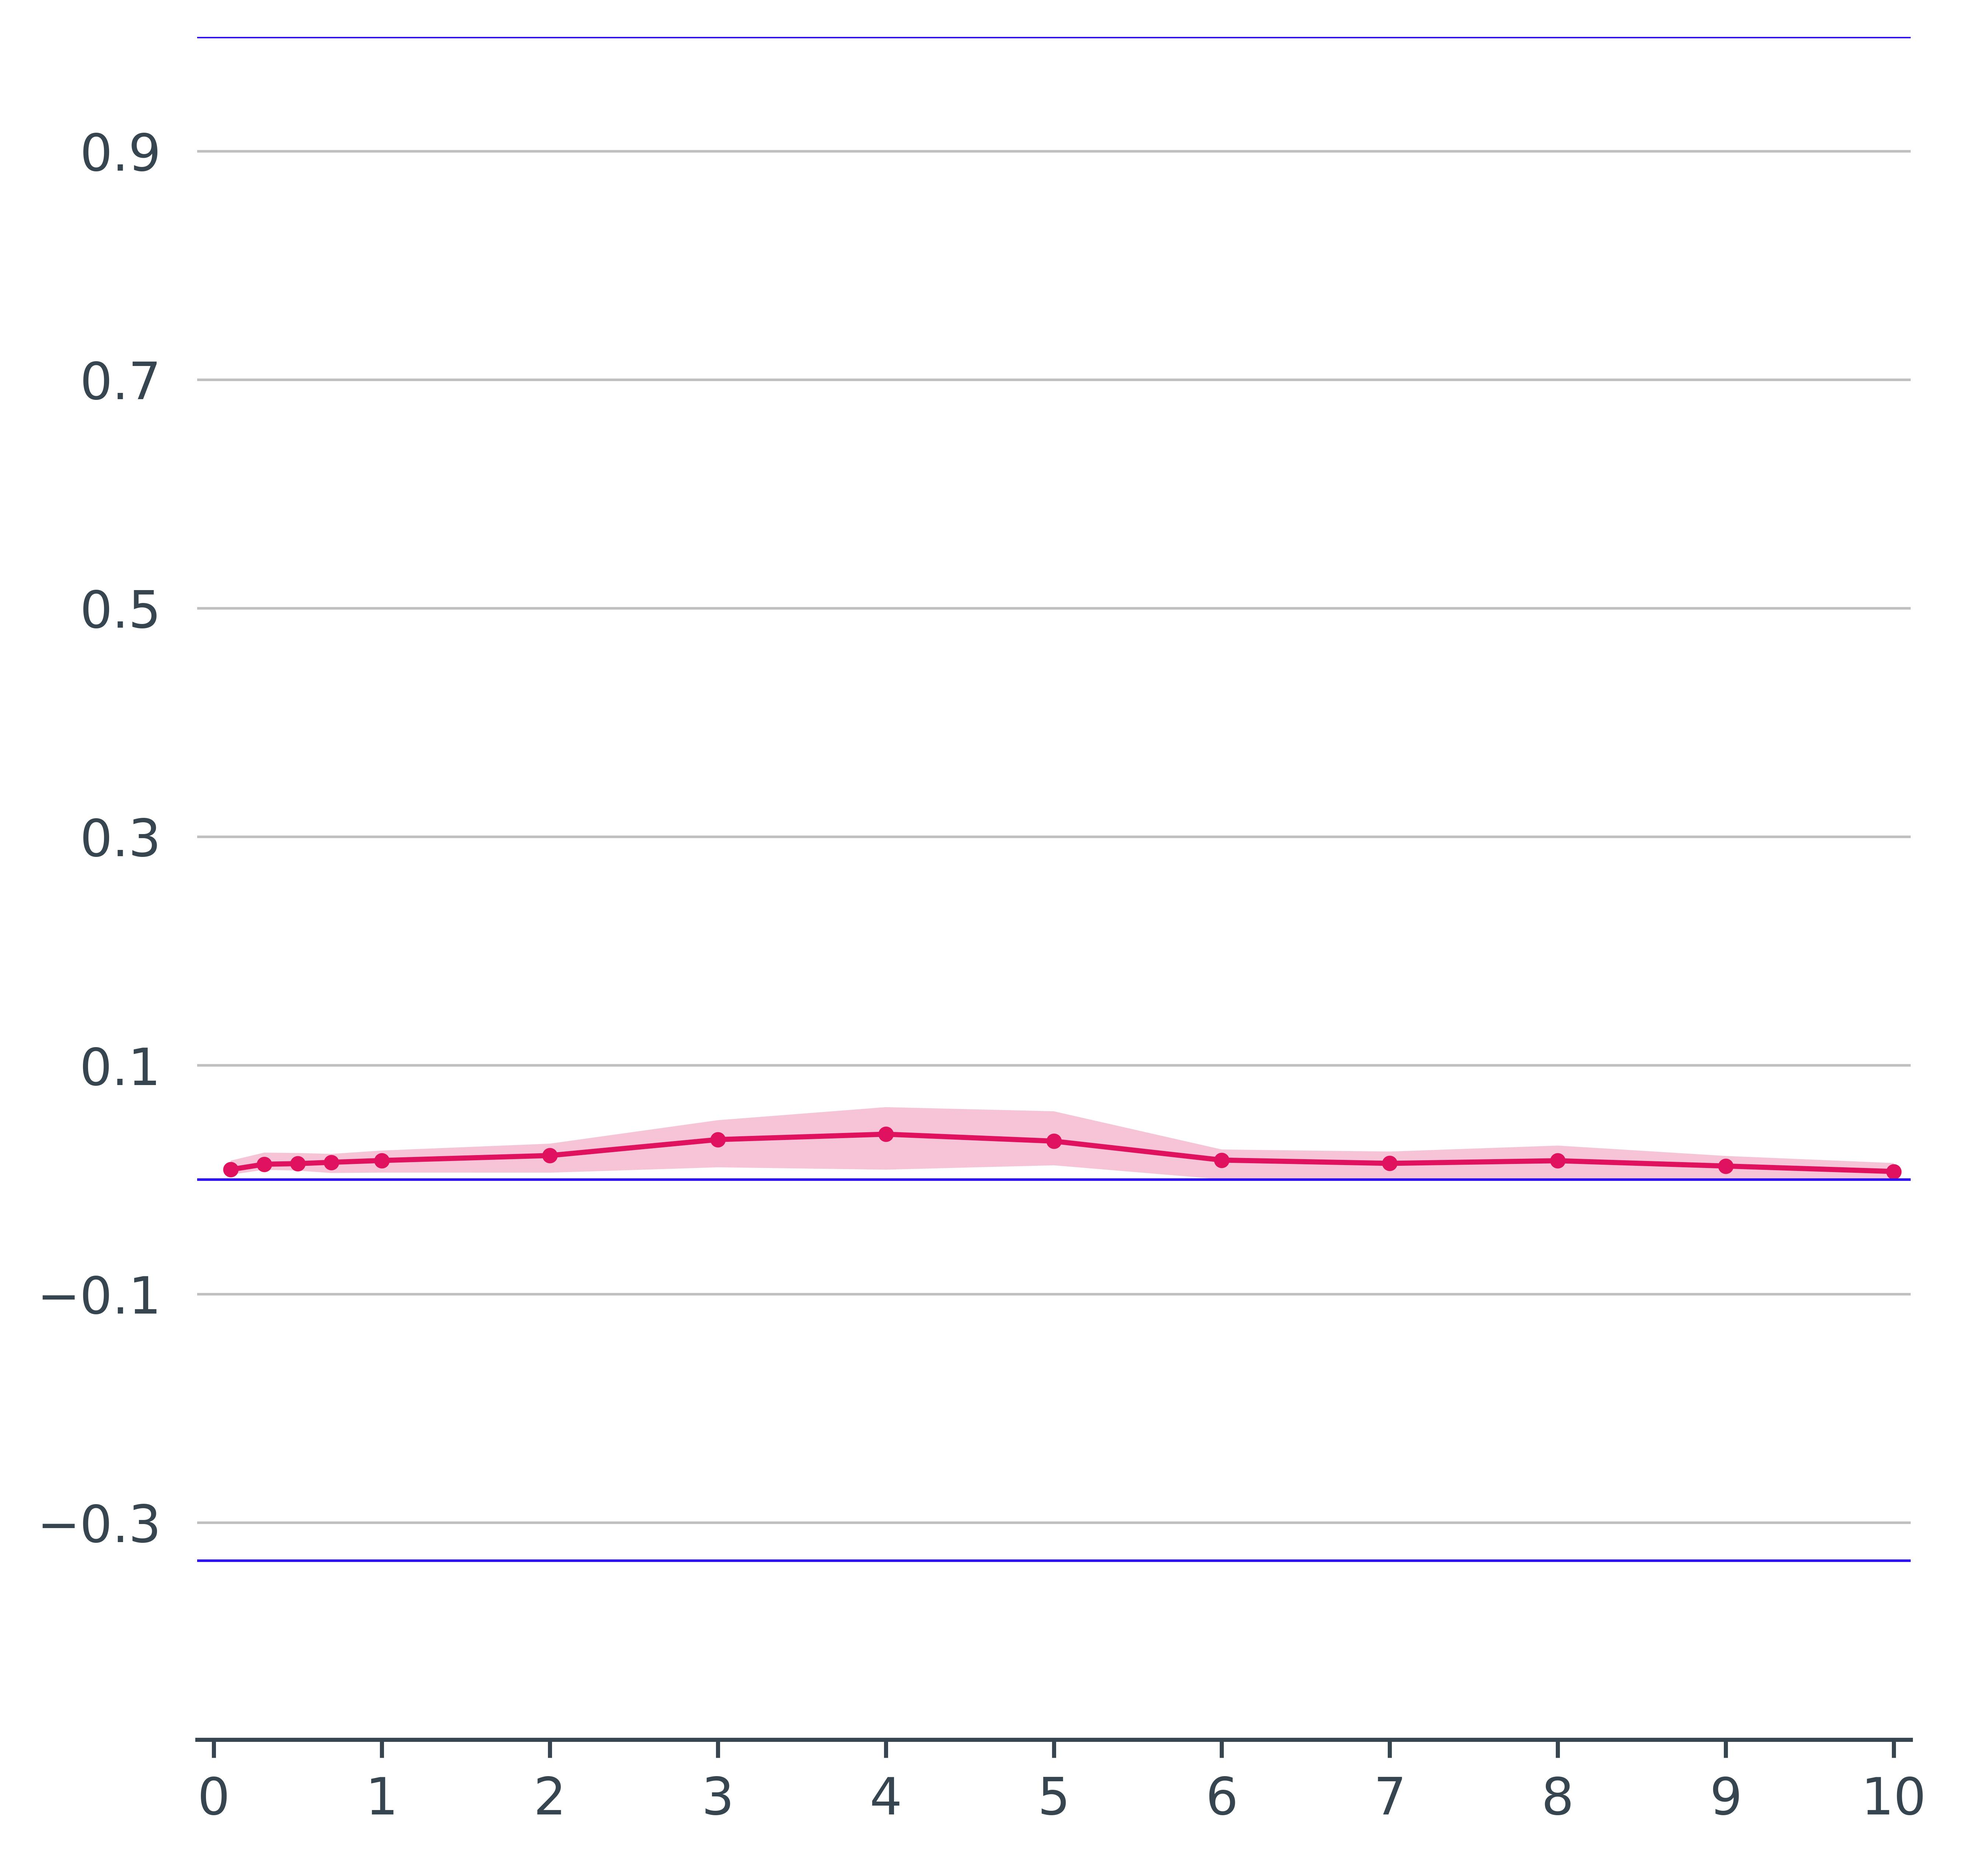
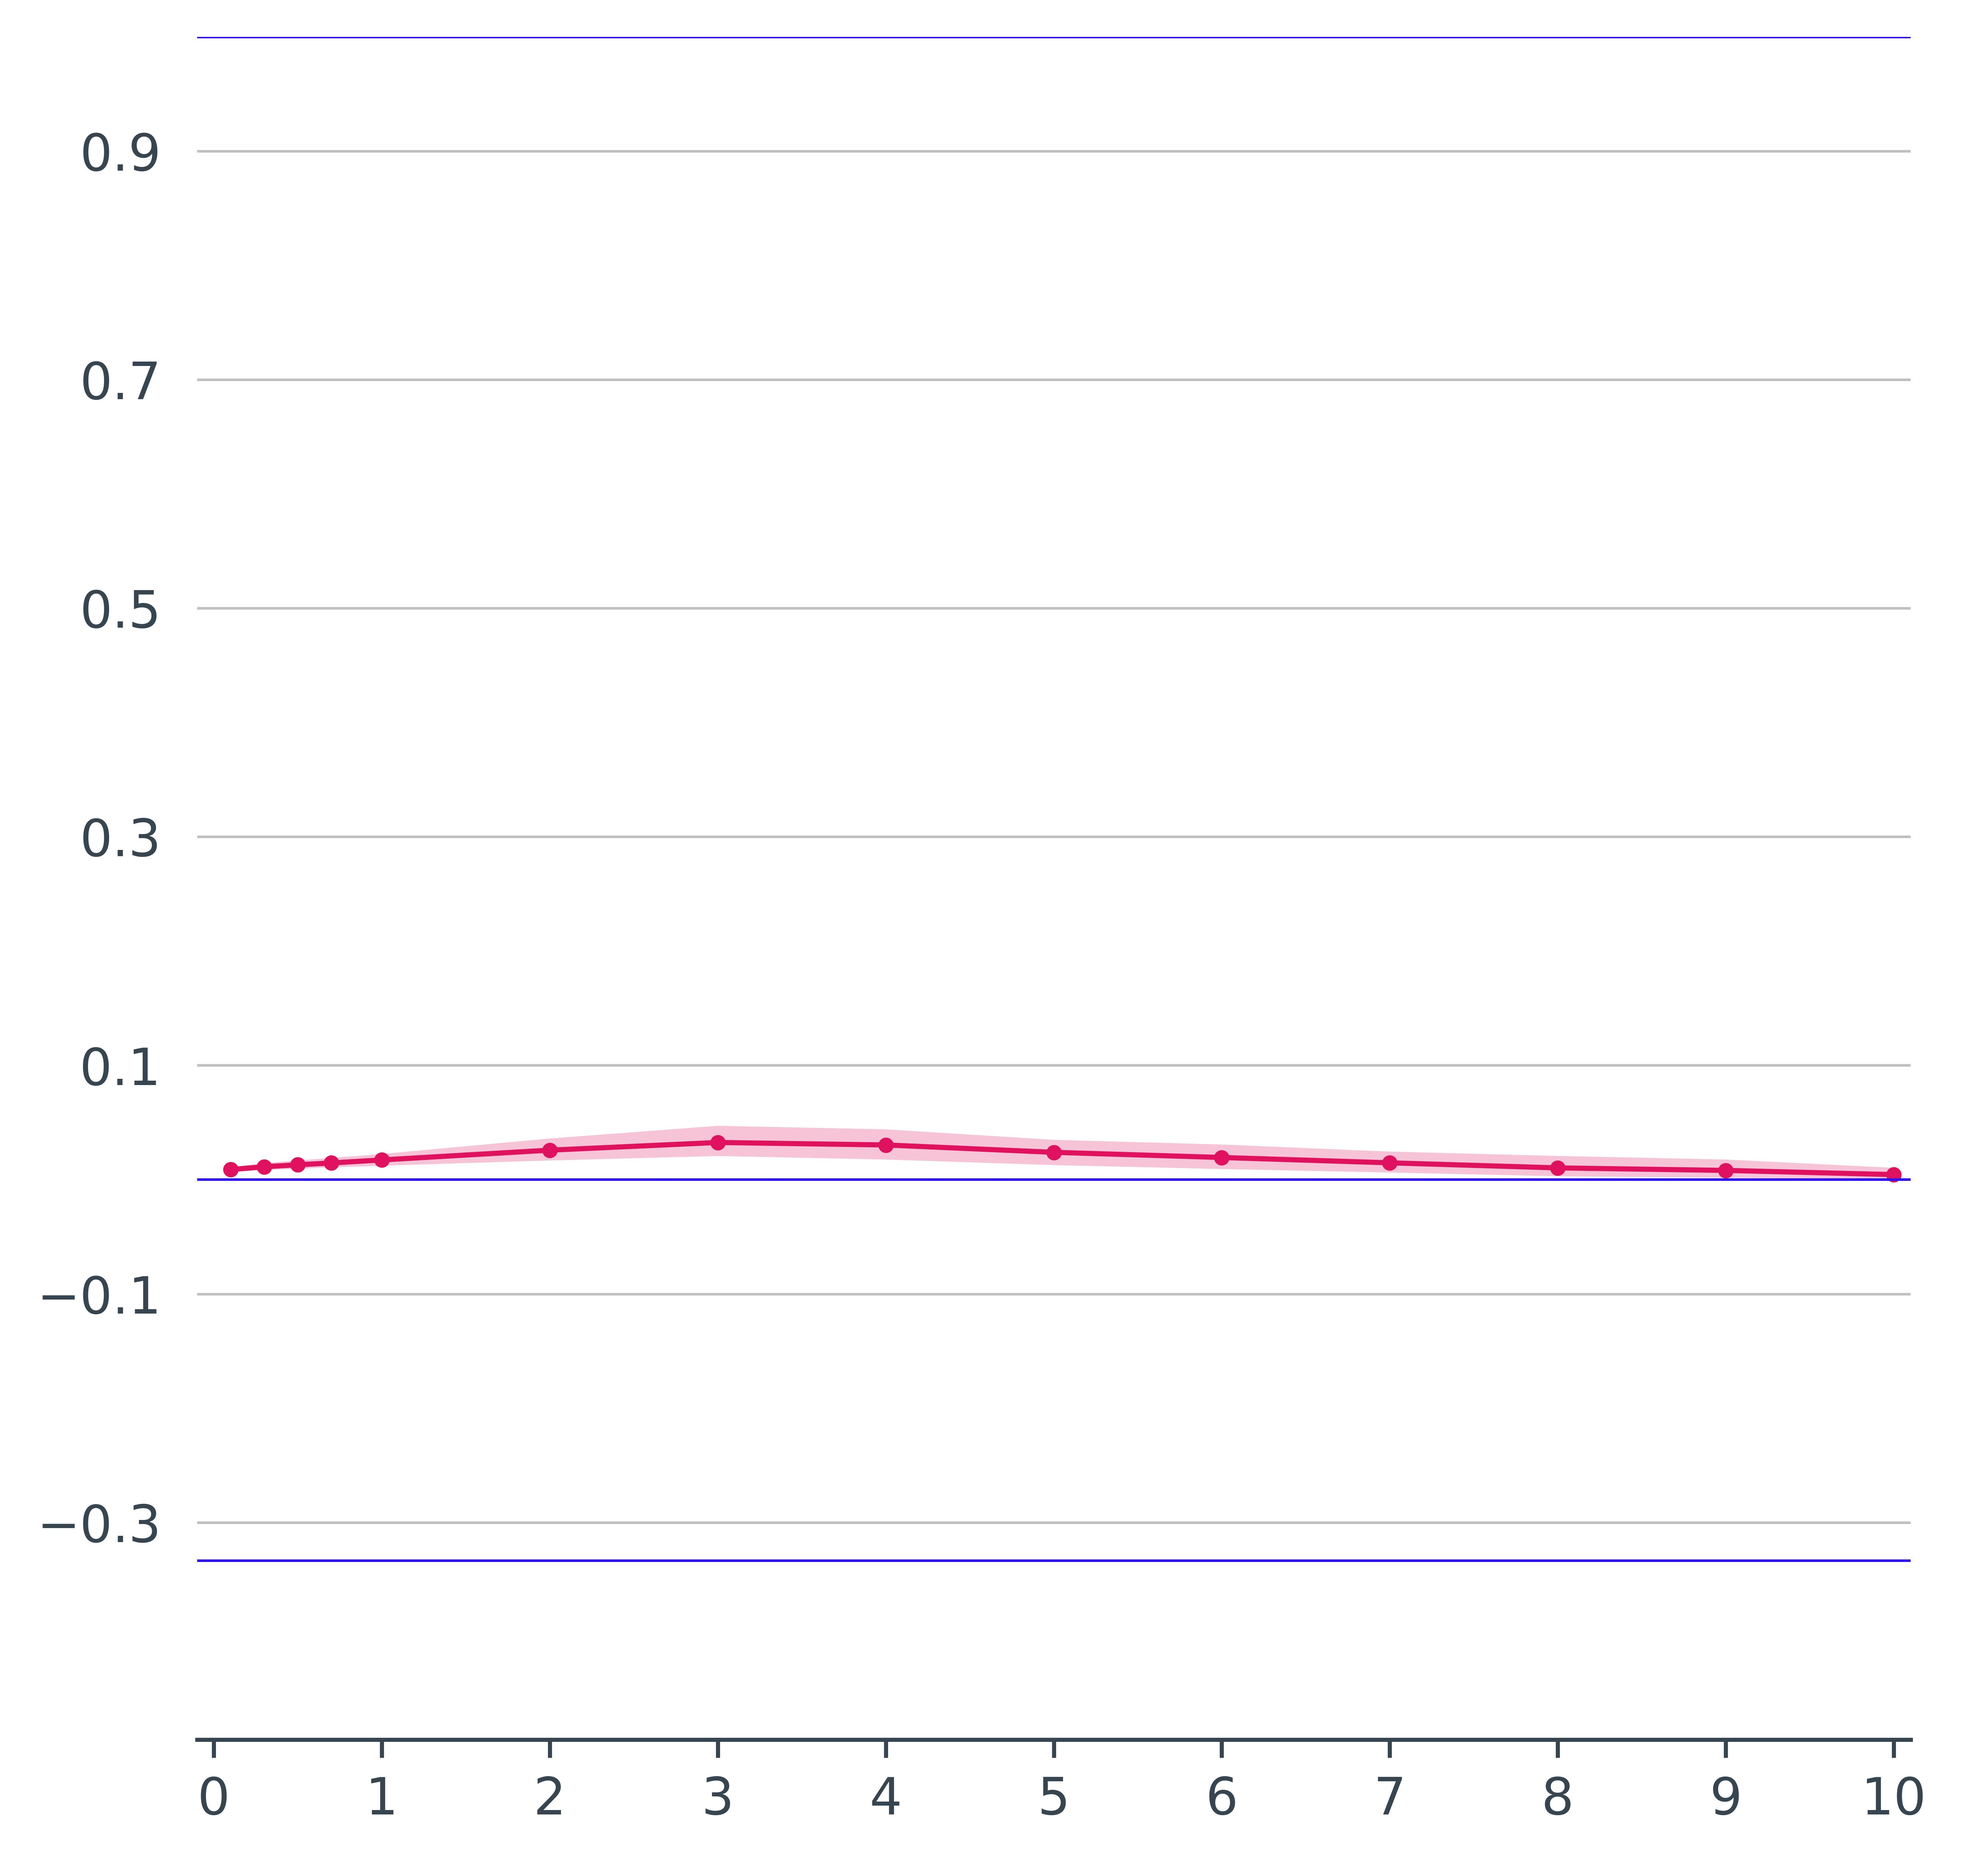
Improved the verification plots against flash flood reports.

Changed region(s): [[0.1246, 0.5905, 0.5921, 0.6526], [0.5921, 0.5905, 0.966, 0.6526]]

diff --git a/Scripts/Processed/36_Plot_Verif_Scores.py b/Scripts/Processed/36_Plot_Verif_Scores.py
@@ -28,10 +28,10 @@ from matplotlib.patches import PathPatch
 
 # INPUT PARAMETERS
 TheDateTime_Start_S = datetime(2021, 1, 1, 0)
-TheDateTime_Start_F = datetime(2021, 1, 31, 12)
+TheDateTime_Start_F = datetime(2023, 12, 31, 12)
 Acc = 12
 Disc_Acc = 12
-Num_BS = 10
+Num_BS = 1000
 CL = 99
 Thr_list = [0.1, 0.3, 0.5, 0.7, 1, 2, 3, 4, 5, 6, 7, 8, 9, 10]
 Git_Repo = "/ec/vol/ecpoint_dev/mofp/Papers_2_Write/Use_FlashFloodsRep_4Verif_USA"
@@ -79,11 +79,13 @@ cn_bs = np.zeros((len(Thr_list), (Num_BS+1)))
 
 # Assessing how many accumulation periods are considered per day
 List_Start_AccPer = integer_list = list(range(0, 24, Disc_Acc))
+Num_Days = (TheDateTime_Start_F - TheDateTime_Start_S).days + 1
 
 # Reading domain's mask
 mask = mv.read(Git_Repo + "/" + FileIN_Mask)
 mask_vals = mv.values(mask)
 mask_index = np.where(mask_vals == 1)[0]
+Num_GP = mask_index.shape[0]
 
 # Computing the bootstrapped verification scores for the considered verification period
 print("Computing the bootstrapped verification scores for the verification period between " + TheDateTime_Start_S.strftime("%Y-%m-%d %H UTC") + " and " + TheDateTime_Start_F.strftime("%Y-%m-%d %H UTC"))
@@ -129,7 +131,25 @@ for ind_BS in range(Num_BS+1):
       fa_bs[:, ind_BS] = fa
       cn_bs[:, ind_BS] = cn
 
-# Computing the scores
+# Printing on screen the contingency table
+Tot_NumGB_Verif_Per = (h_bs + m_bs + fa_bs + cn_bs)[0]
+print("Total n. of grid-boxes in the verification period:", Tot_NumGB_Verif_Per)
+print()
+print("Hits:")
+print(h_bs / Tot_NumGB_Verif_Per * 100)
+print()
+print("Misses:")
+print(m_bs / Tot_NumGB_Verif_Per * 100)
+print()
+print("False alarms:")
+print(fa_bs / Tot_NumGB_Verif_Per * 100)
+print()
+print("Correct negatives:")
+print(cn_bs / Tot_NumGB_Verif_Per * 100)
+
+# Computing the verification scores
+print()
+print("Computing the verification scores")
 total_bs = h_bs + m_bs + fa_bs + cn_bs
 h_chance_bs = (h_bs + fa_bs) * (h_bs + m_bs) / total_bs
 hr_bs = h_bs / (h_bs + m_bs) 
@@ -138,109 +158,9 @@ bias_bs =  (h_bs + fa_bs) / (h_bs + m_bs)
 pss_bs = (h_bs / (h_bs + m_bs)) - (fa_bs / (fa_bs + cn_bs))
 ets_bs = (h_bs - h_chance_bs) / (h_bs + m_bs + fa_bs - h_chance_bs)
 
-
 # Plotting and saving the verification scores
 print()
 print("Plotting and saving the verification scores")
-
-
-######
-# Hits #
-######
-
-var = h_bs
-VarName = "h"
-
-lower_error = np.percentile(var[:,1:], (100-CL)/2, axis = 1)
-upper_error = np.percentile(var[:,1:], (100 - (100-CL)/2), axis = 1)
-
-plt.figure(figsize=(6,6))
-plt.plot(Thr_list, var[:,0], "o-", color="#E0115F", linewidth=2, markersize=4)
-plt.fill_between(Thr_list, lower_error, upper_error, color="#E0115F", alpha=0.25, edgecolor="none")
-
-ax = plt.gca()
-ax.spines["top"].set_visible(False)
-ax.spines["bottom"].set_color("#36454F")
-ax.spines["left"].set_visible(False)
-ax.spines["right"].set_visible(False)
-plt.tick_params(left=False, right=False, top=False)
-ax.tick_params(axis="x", colors="#36454F")
-ax.tick_params(axis="y", colors="#36454F")
-
-plt.ylim([-9, np.max(var[:,0] + 10)])
-ax.set_xticks(np.arange(0, np.max(Thr_list) + 1))
-
-plt.grid(axis="y", color="silver", linewidth=0.5)
-
-FileOUT = MainDirOUT + "/" + VarName + ".jpeg"
-plt.savefig(FileOUT, format="jpeg", bbox_inches="tight", dpi=1000)
-plt.close()
-
-
-#########
-# Misses #
-#########
-
-var = m_bs
-VarName = "m"
-
-lower_error = np.percentile(var[:,1:], (100-CL)/2, axis = 1)
-upper_error = np.percentile(var[:,1:], (100 - (100-CL)/2), axis = 1)
-
-plt.figure(figsize=(6,6))
-plt.plot(Thr_list, var[:,0], "o-", color="#E0115F", linewidth=2, markersize=4)
-plt.fill_between(Thr_list, lower_error, upper_error, color="#E0115F", alpha=0.25, edgecolor="none")
-
-ax = plt.gca()
-ax.spines["top"].set_visible(False)
-ax.spines["bottom"].set_color("#36454F")
-ax.spines["left"].set_visible(False)
-ax.spines["right"].set_visible(False)
-plt.tick_params(left=False, right=False, top=False)
-ax.tick_params(axis="x", colors="#36454F")
-ax.tick_params(axis="y", colors="#36454F")
-
-plt.ylim([-9, np.max(var[:,0] + 10)])
-ax.set_xticks(np.arange(0, np.max(Thr_list) + 1))
-
-plt.grid(axis="y", color="silver", linewidth=0.5)
-
-FileOUT = MainDirOUT + "/" + VarName + ".jpeg"
-plt.savefig(FileOUT, format="jpeg", bbox_inches="tight", dpi=1000)
-plt.close()
-
-
-#############
-# False alarms #
-#############
-
-var = fa_bs
-VarName = "fa"
-
-lower_error = np.percentile(var[:,1:], (100-CL)/2, axis = 1)
-upper_error = np.percentile(var[:,1:], (100 - (100-CL)/2), axis = 1)
-
-plt.figure(figsize=(6,6))
-plt.plot(Thr_list, var[:,0], "o-", color="#E0115F", linewidth=2, markersize=4)
-plt.fill_between(Thr_list, lower_error, upper_error, color="#E0115F", alpha=0.25, edgecolor="none")
-
-ax = plt.gca()
-ax.spines["top"].set_visible(False)
-ax.spines["bottom"].set_color("#36454F")
-ax.spines["left"].set_visible(False)
-ax.spines["right"].set_visible(False)
-plt.tick_params(left=False, right=False, top=False)
-ax.tick_params(axis="x", colors="#36454F")
-ax.tick_params(axis="y", colors="#36454F")
-
-plt.ylim([-1000, np.max(var[:,0] + 1000)])
-ax.set_xticks(np.arange(0, np.max(Thr_list) + 1))
-
-plt.grid(axis="y", color="silver", linewidth=0.5)
-
-FileOUT = MainDirOUT + "/" + VarName + ".jpeg"
-plt.savefig(FileOUT, format="jpeg", bbox_inches="tight", dpi=1000)
-plt.close()
 
 
 ###########
@@ -303,9 +223,9 @@ plt.savefig(FileOUT, format="jpeg", bbox_inches="tight", dpi=1000)
 plt.close()
 
 
-######
-# Bias #
-######
+###############
+# Frequency Bias #
+###############
 
 var = bias_bs
 VarName = "bias"
